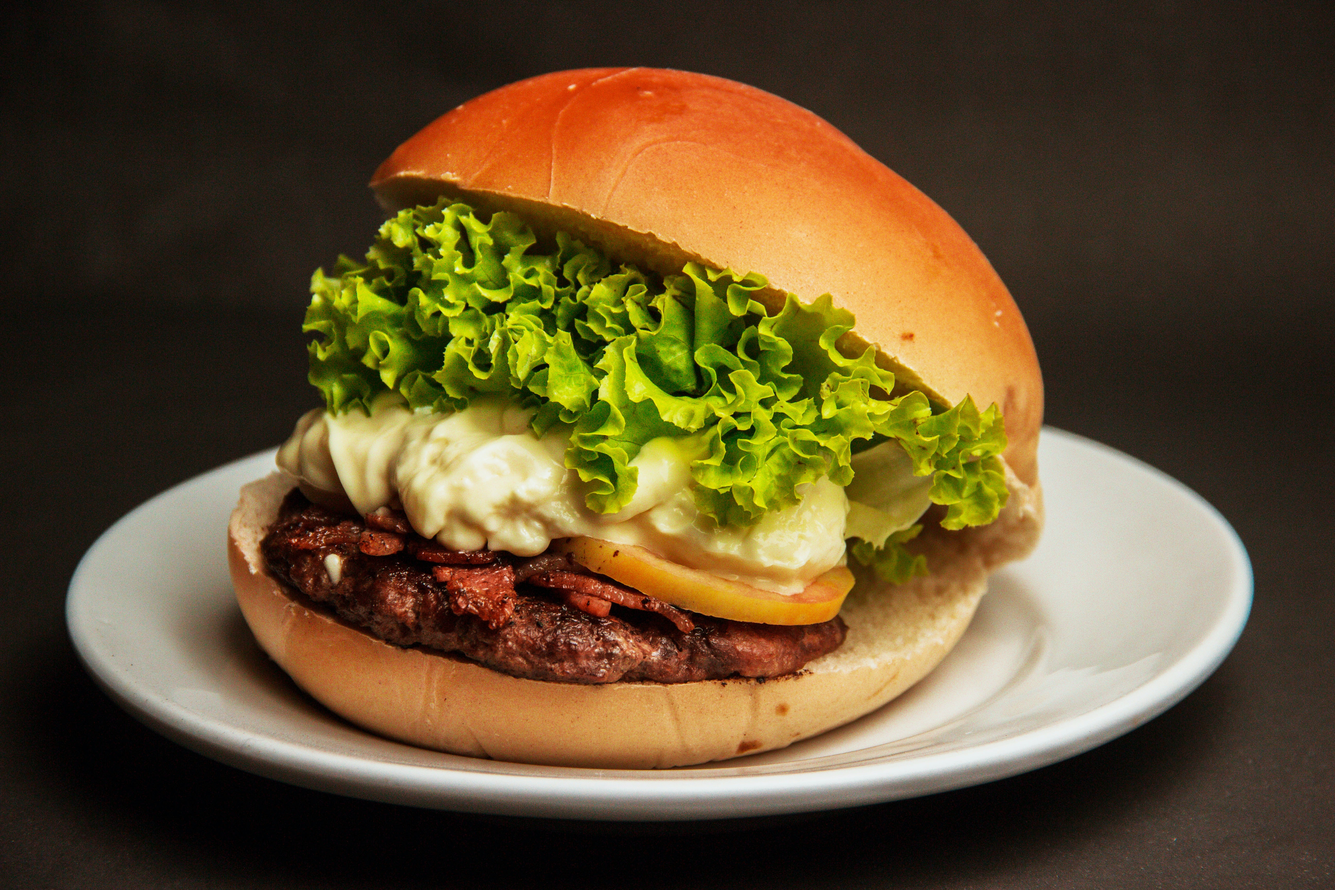
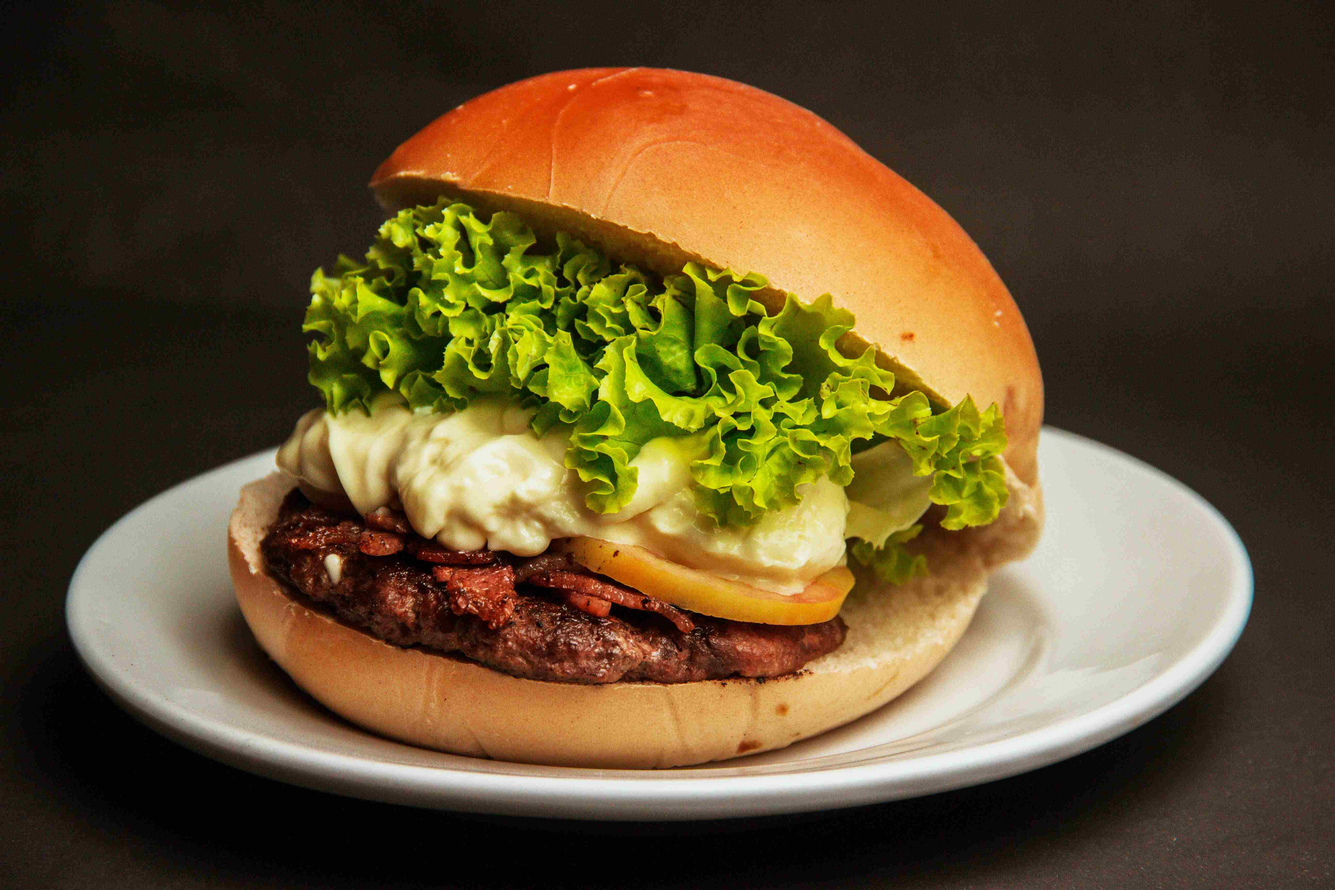
termine la pagina pedidos y agregue las imagenes ya comprimidas

diff --git a/pages/pedidos.html b/pages/pedidos.html
@@ -142,7 +142,8 @@
                 </div>
             </div>
             <div id="desaparece" class="col-sm-0 col-md-6 col-xl-6 col-xxl-6">
-                <h3>SI NO SABES QUE PEDIR, TE INVITAMOS A VER <a href="../pages/menu.html">NUESTRO MENU</a>. </h3>
+                <h3>SI NO SABES QUE PEDIR, TE INVITAMOS A VER <a href="../pages/menu.html">NUESTRO
+                        MENU</a>. </h3>
                 <h3>ASI COMO
                     TAMBIEN PODES VER <a href="../pages/sucursales.html">NUESTRAS SUCURSALES</a> PARA SABER DONDE
                     ESTAMOS

diff --git a/sass/pedidos.scss b/sass/pedidos.scss
@@ -152,3 +152,36 @@ $borde_select: rgba(246, 246, 246, 0.317);
         }
     }
 }
+
+@media screen and (min-width: 1100px) {
+    #desaparece {
+        h3 {
+            width: 500px;
+        }
+    }
+}
+
+@media screen and (min-width: 1400px) {
+
+
+    .datos_pedido {
+        height: 36px;
+        width: 260px;
+    }
+
+    .select_pedido {
+        height: 33px;
+        width: 200px;
+
+    }
+
+    .btn_check {
+        font-size: 22px;
+    }
+
+    .btn_pedido {
+        width: 82px;
+        height: 30px;
+        font-size: 19px;
+    }
+}

diff --git a/sass/menu.css b/sass/menu.css
@@ -1,0 +1,31 @@
+.titulo-burger {
+  font-size: 20px;
+}
+
+.titulo-main-menu {
+  font-size: 25px;
+}
+
+.burger:hover {
+  transform: scale(1.1);
+}
+
+/* media querys */
+@media screen and (min-width: 400px) {
+  .titulo-burger {
+    font-size: 25px;
+  }
+  .titulo-main-menu {
+    font-size: 28px;
+  }
+}
+@media screen and (min-width: 720px) {
+  .titulo-main-menu {
+    font-size: 33px;
+  }
+}
+@media screen and (min-width: 768px) {
+  .burger {
+    margin-right: 50px;
+  }
+}/*# sourceMappingURL=menu.css.map */

diff --git a/sass/contacto.css b/sass/contacto.css
@@ -1,0 +1,10 @@
+#desa {
+  color: black;
+  display: none;
+}
+
+@media screen and (min-width: 450px) {
+  #desa {
+    display: inline-block;
+  }
+}/*# sourceMappingURL=contacto.css.map */

diff --git a/sass/style.css b/sass/style.css
@@ -307,6 +307,4 @@ iframe {
   #desa {
     display: inline-block;
   }
-}
-
-/*# sourceMappingURL=style.css.map */
+}/*# sourceMappingURL=style.css.map */
